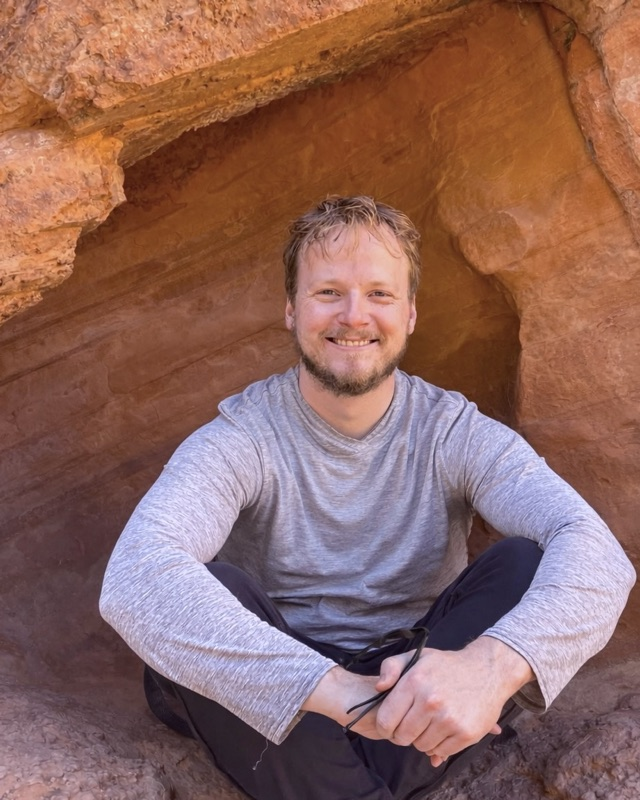
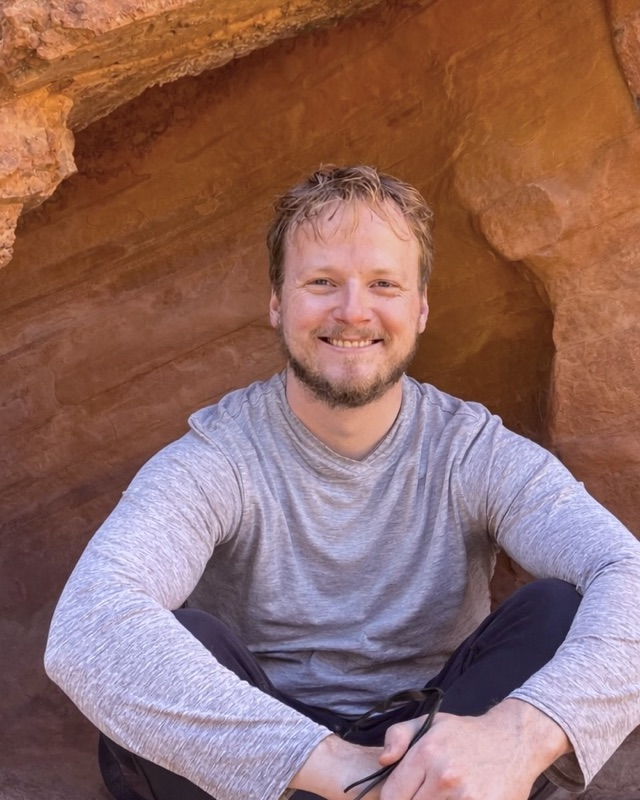
Refine profile image crop and placement

diff --git a/_layouts/minimal.html b/_layouts/minimal.html
@@ -104,7 +104,7 @@
       }
 
       .profile-photo {
-        margin: 4px 0 0;
+        margin: 110px 0 0;
         width: 220px;
       }
 